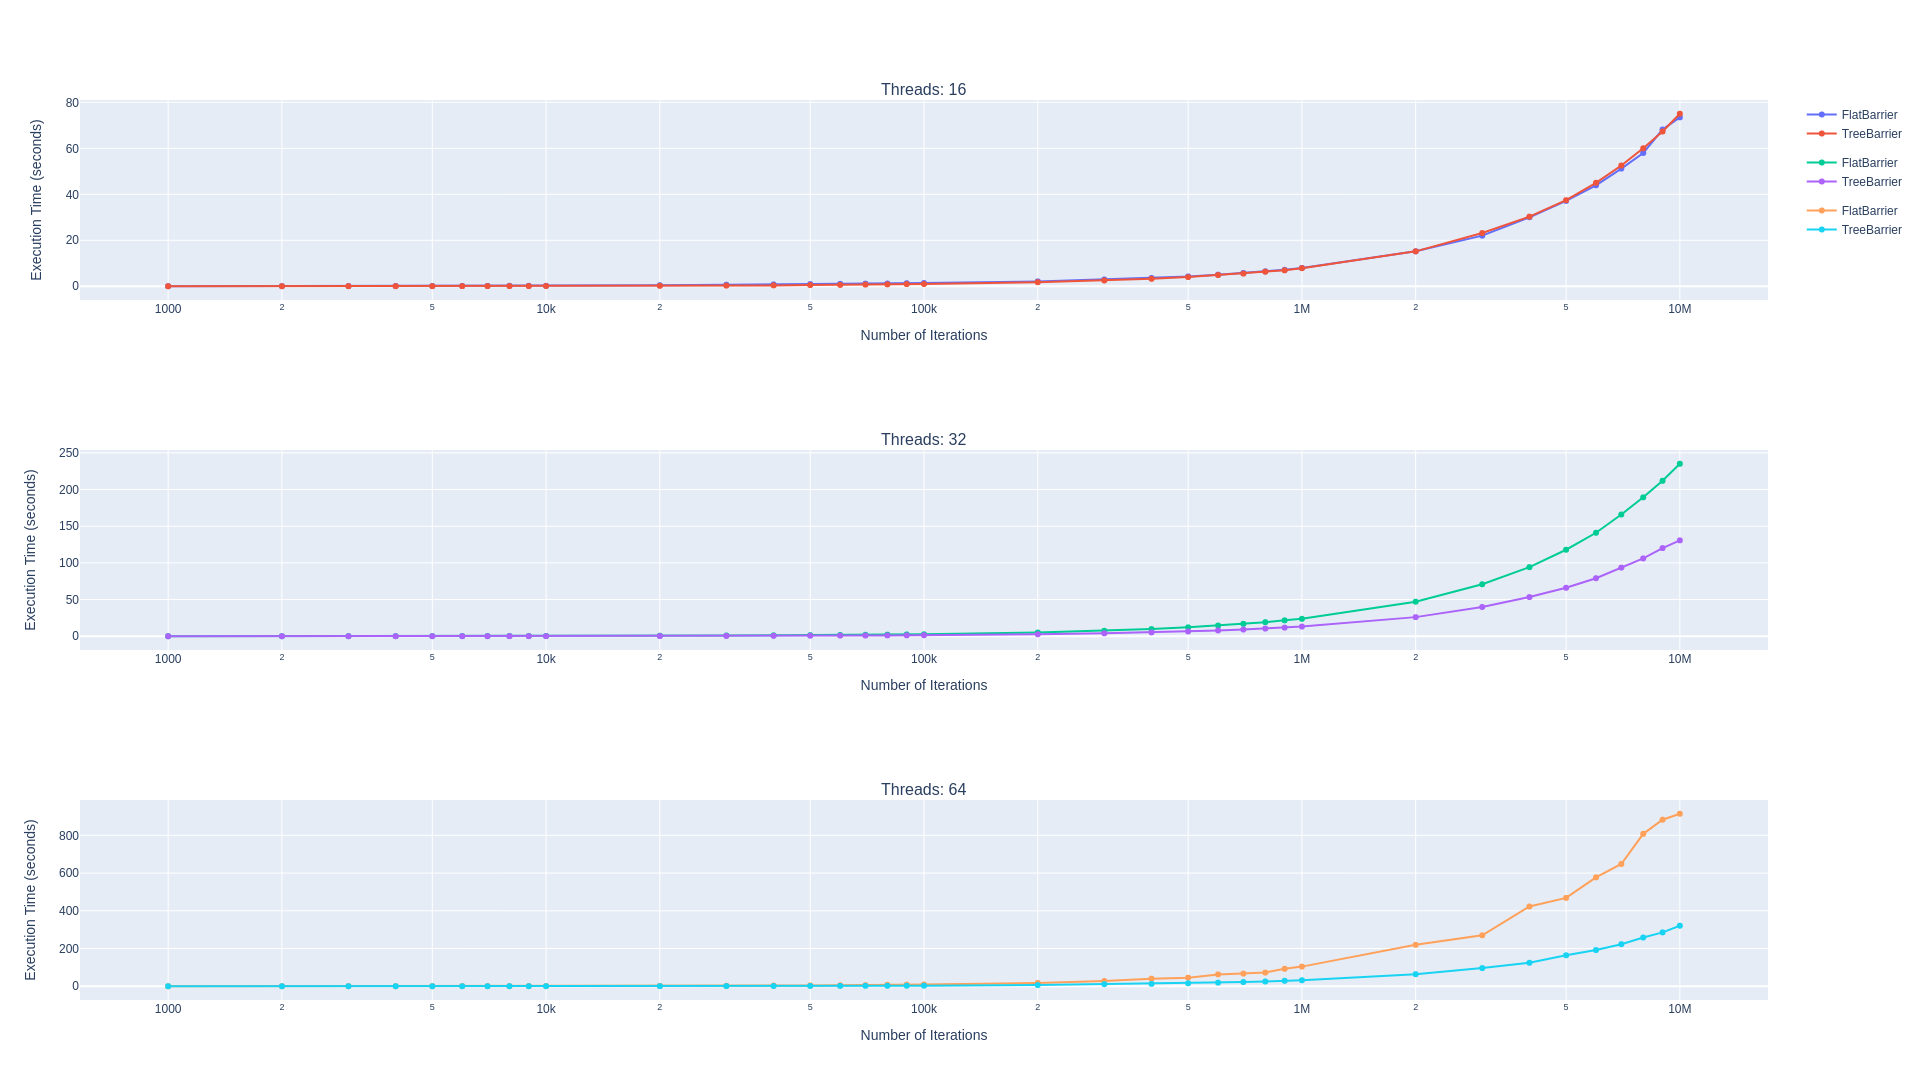
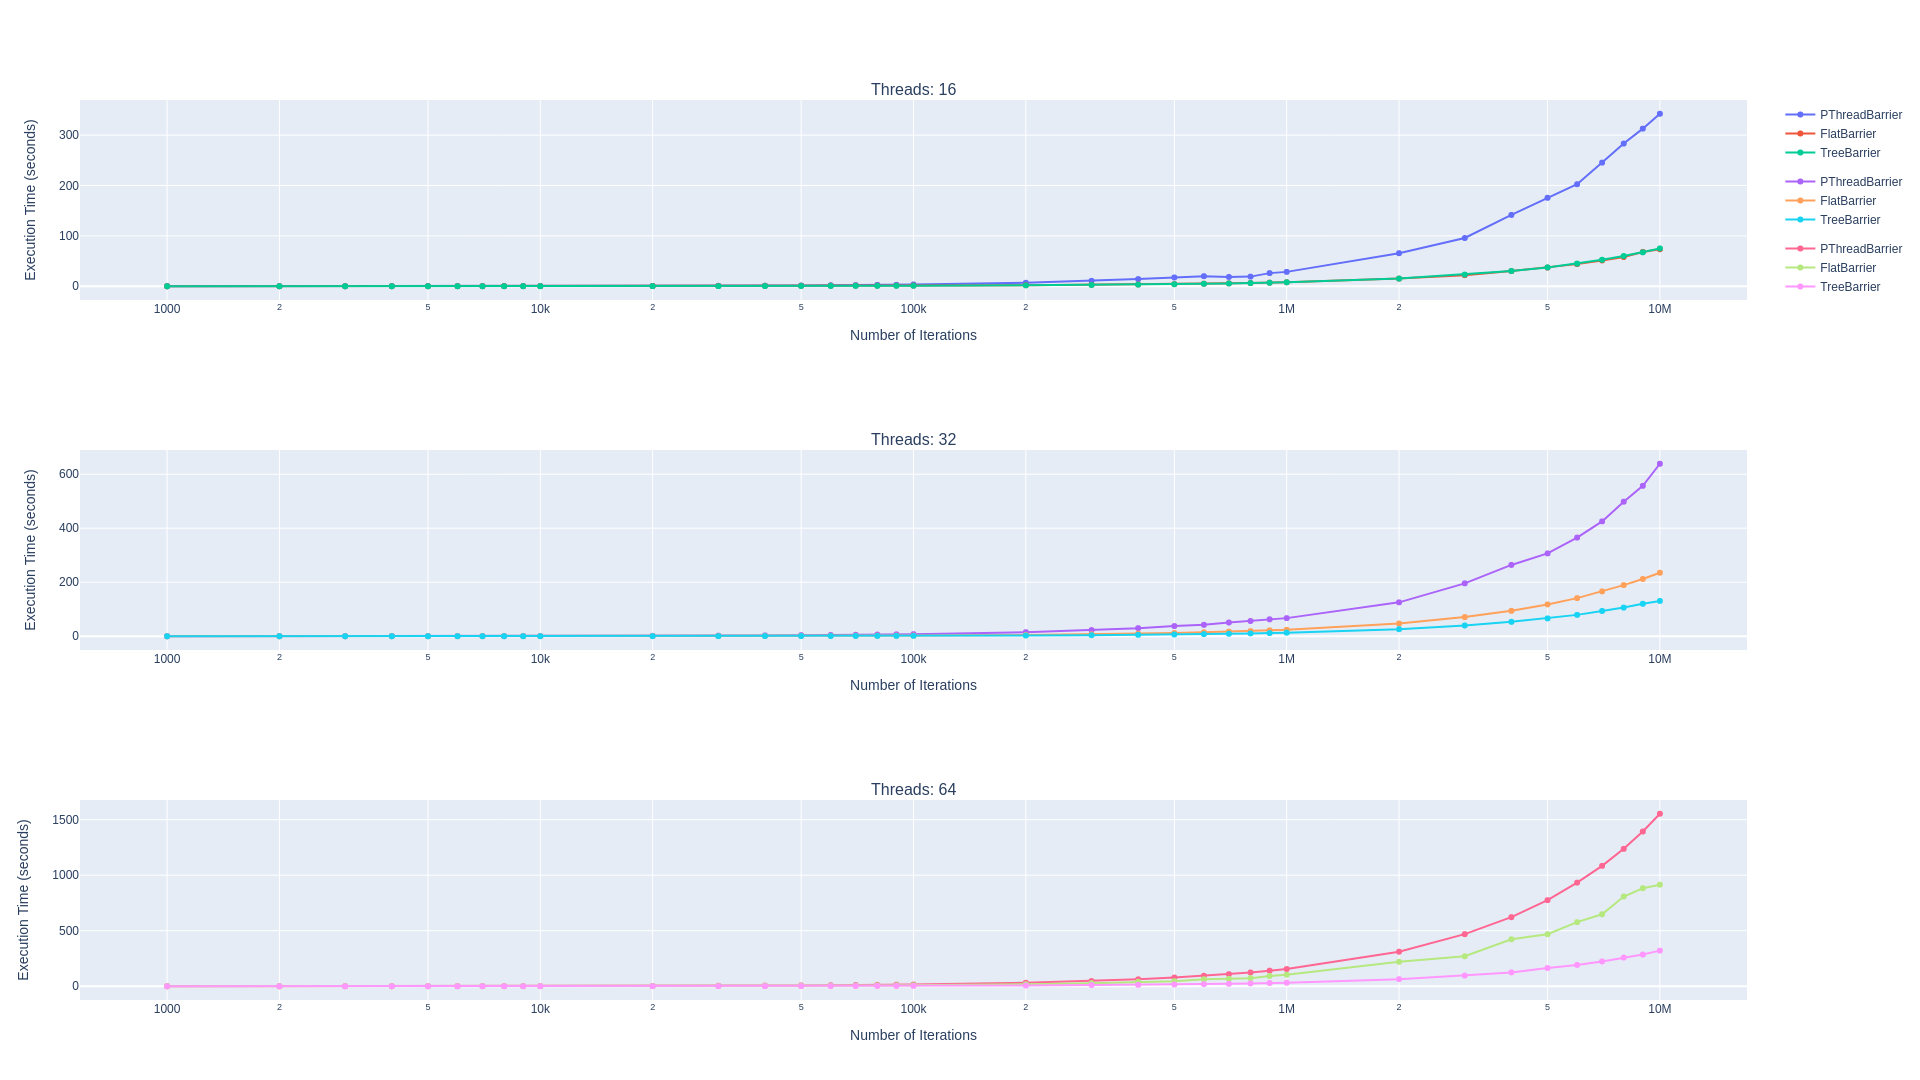
Add pthread barrier to the speed test

diff --git a/test/PThreadBarrier.cpp b/test/PThreadBarrier.cpp
@@ -1,0 +1,49 @@
+#include <thread>
+#include <string>
+#include <vector>
+#ifndef NDEBUG
+#include <iostream>
+#endif // NDEBUG
+
+#include <pthread.h>
+
+uint32_t thread_count;
+uint32_t iterations;
+
+pthread_barrier_t barrier;
+
+void thread(uint32_t tid)
+{
+    // The goal here is to test the basic barrier functionality, not the increment/decrement functionality.
+    // So increment, then use std barrier to make sure everyone incremented before starting the test.
+#ifndef NDEBUG
+    std::string str;
+#endif // NDEBUG
+    for (uint32_t i = 0; i < iterations; i++)
+    {
+        pthread_barrier_wait(&barrier);
+#ifndef NDEBUG
+        str = "Thread " + std::to_string(tid) + " iteration " + std::to_string(i) + "\n";
+        std::cout << str;
+#endif // NDEBUG
+    }
+}
+
+int main(int argc, char** argv)
+{
+    thread_count = std::stoi(argv[1]);
+    iterations = std::stoi(argv[2]);
+
+    pthread_barrier_init(&barrier, NULL, thread_count);
+    std::vector<std::thread> threads;
+    for (uint32_t i = 0; i < thread_count; i++)
+    {
+        threads.emplace_back(std::thread(thread, i));
+    }
+    for (uint32_t i = 0; i < thread_count; i++)
+    {
+        threads[i].join();
+    }
+    pthread_barrier_destroy(&barrier);
+    return 0;
+}

diff --git a/bench/Speed.py b/bench/Speed.py
@@ -73,7 +73,7 @@ def PlotResults(results):
     pio.write_image(fig, "Speed.png", height=1080, width=1920)
 
 if __name__ == "__main__":
-    programs = ["FlatBarrier", "TreeBarrier"]
+    programs = ["PThreadBarrier", "FlatBarrier", "TreeBarrier"]
     threads = [2**i for i in range(4, 7)]  # Powers of 2 from 2 to 64
     iterations_cycle = [i for i in range(1, 10)]
     iterations = []
